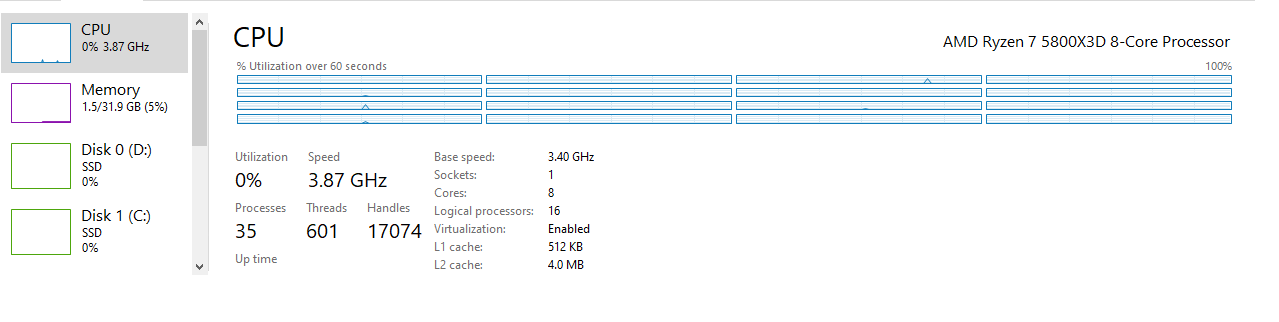
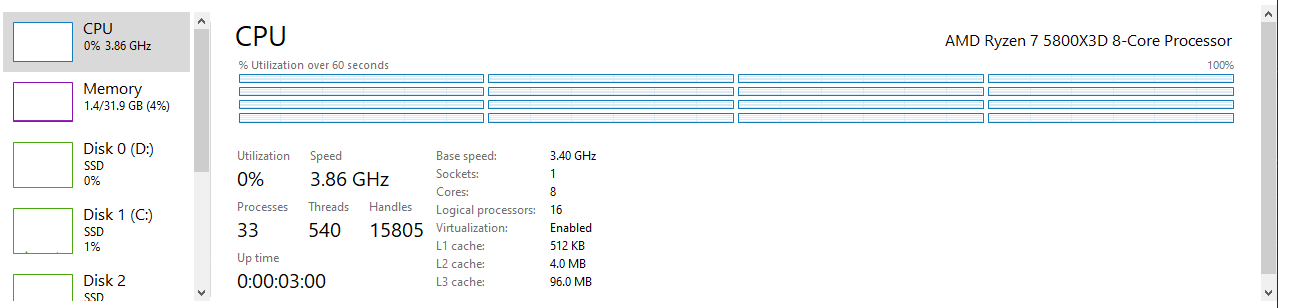
updated docs and scripts

diff --git a/README.md b/README.md
@@ -38,7 +38,7 @@ Make sure you create a System Restore Point before running any scripts.
 
 ### Result
 
-From a fresh Windows 10 22H2 install and completely updated, and applying the scripts from this repo, it was reduced to `35` processes, with Process Lasso and Nvidia Driver (debloated) in the background.
+From a fresh Windows 10 22H2 install and completely updated, and applying the scripts from this repo, it was reduced to `33` processes, with Nvidia Driver (debloated) in the background.
 
 No additional tools were used.
 
@@ -94,7 +94,7 @@ It doesnt mean they arent trustworthy, I don't know them, it just means it's not
 ### Other
 
 - An option, would be to remove services <https://learn.microsoft.com/en-us/dotnet/framework/windows-services/how-to-install-and-uninstall-services>
-- RAM usage could be reduced if service drivers were looked into more completely. <https://processhacker.sourceforge.io/> <https://woshub.com/huge-memory-usage-non-paged-pool-windows/> <https://superuser.com/questions/394430/identifying-root-cause-of-high-ram-usage-in-paged-pool>
+- RAM usage could be reduced if service drivers were looked into more completely. <https://systeminformer.sourceforge.io/> <https://woshub.com/huge-memory-usage-non-paged-pool-windows/> <https://superuser.com/questions/394430/identifying-root-cause-of-high-ram-usage-in-paged-pool>
 - Scheduling Priorities seem to have hard locks done by the OS, there is a way to undo those, but the tool recommended has a lot of red flags related to trojan. Maybe if built manually it would be worth using. <https://www.youtube.com/watch?v=-jYnDuK-vB0> <https://learn.microsoft.com/en-us/windows/win32/procthread/scheduling-priorities> <https://github.com/katlogic/WindowsD>
 
 - Tools that could be useful
